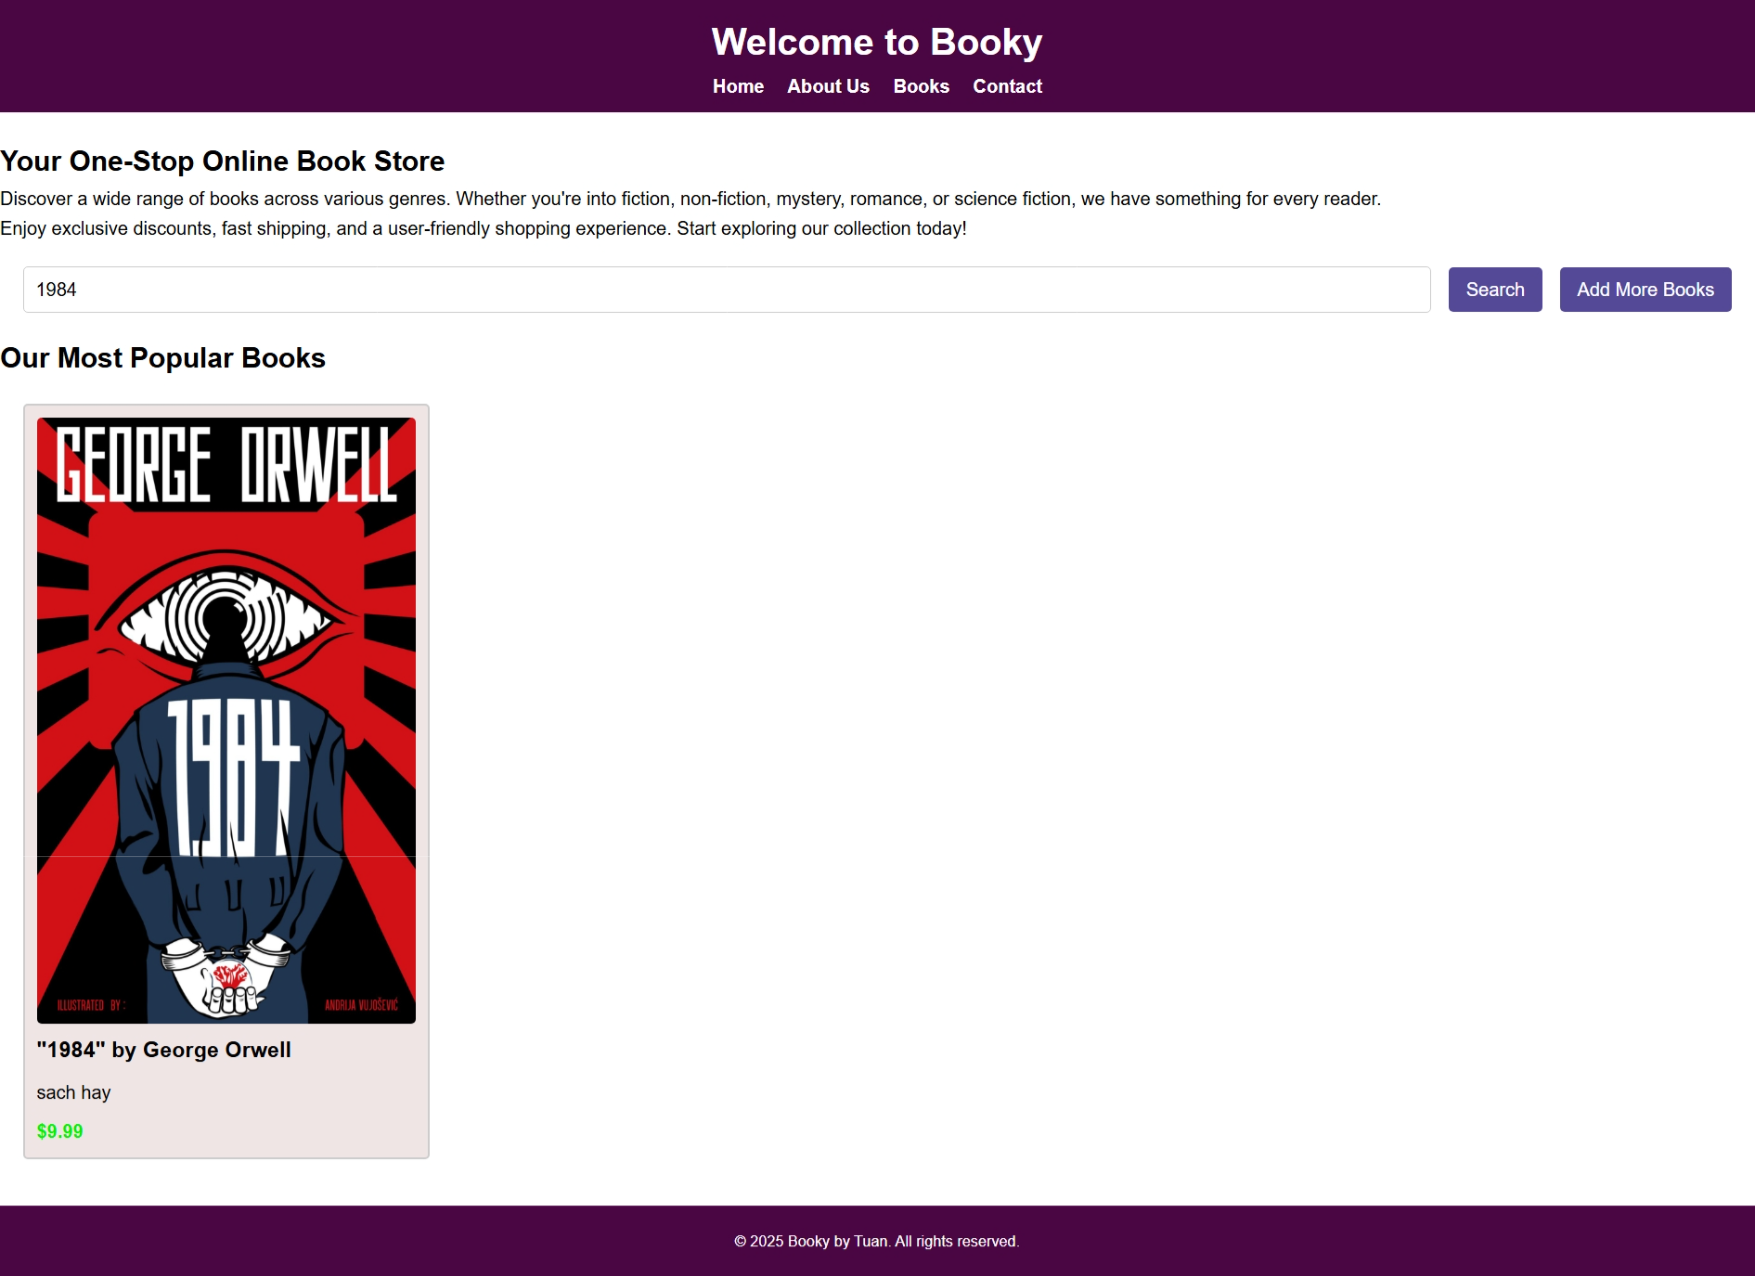
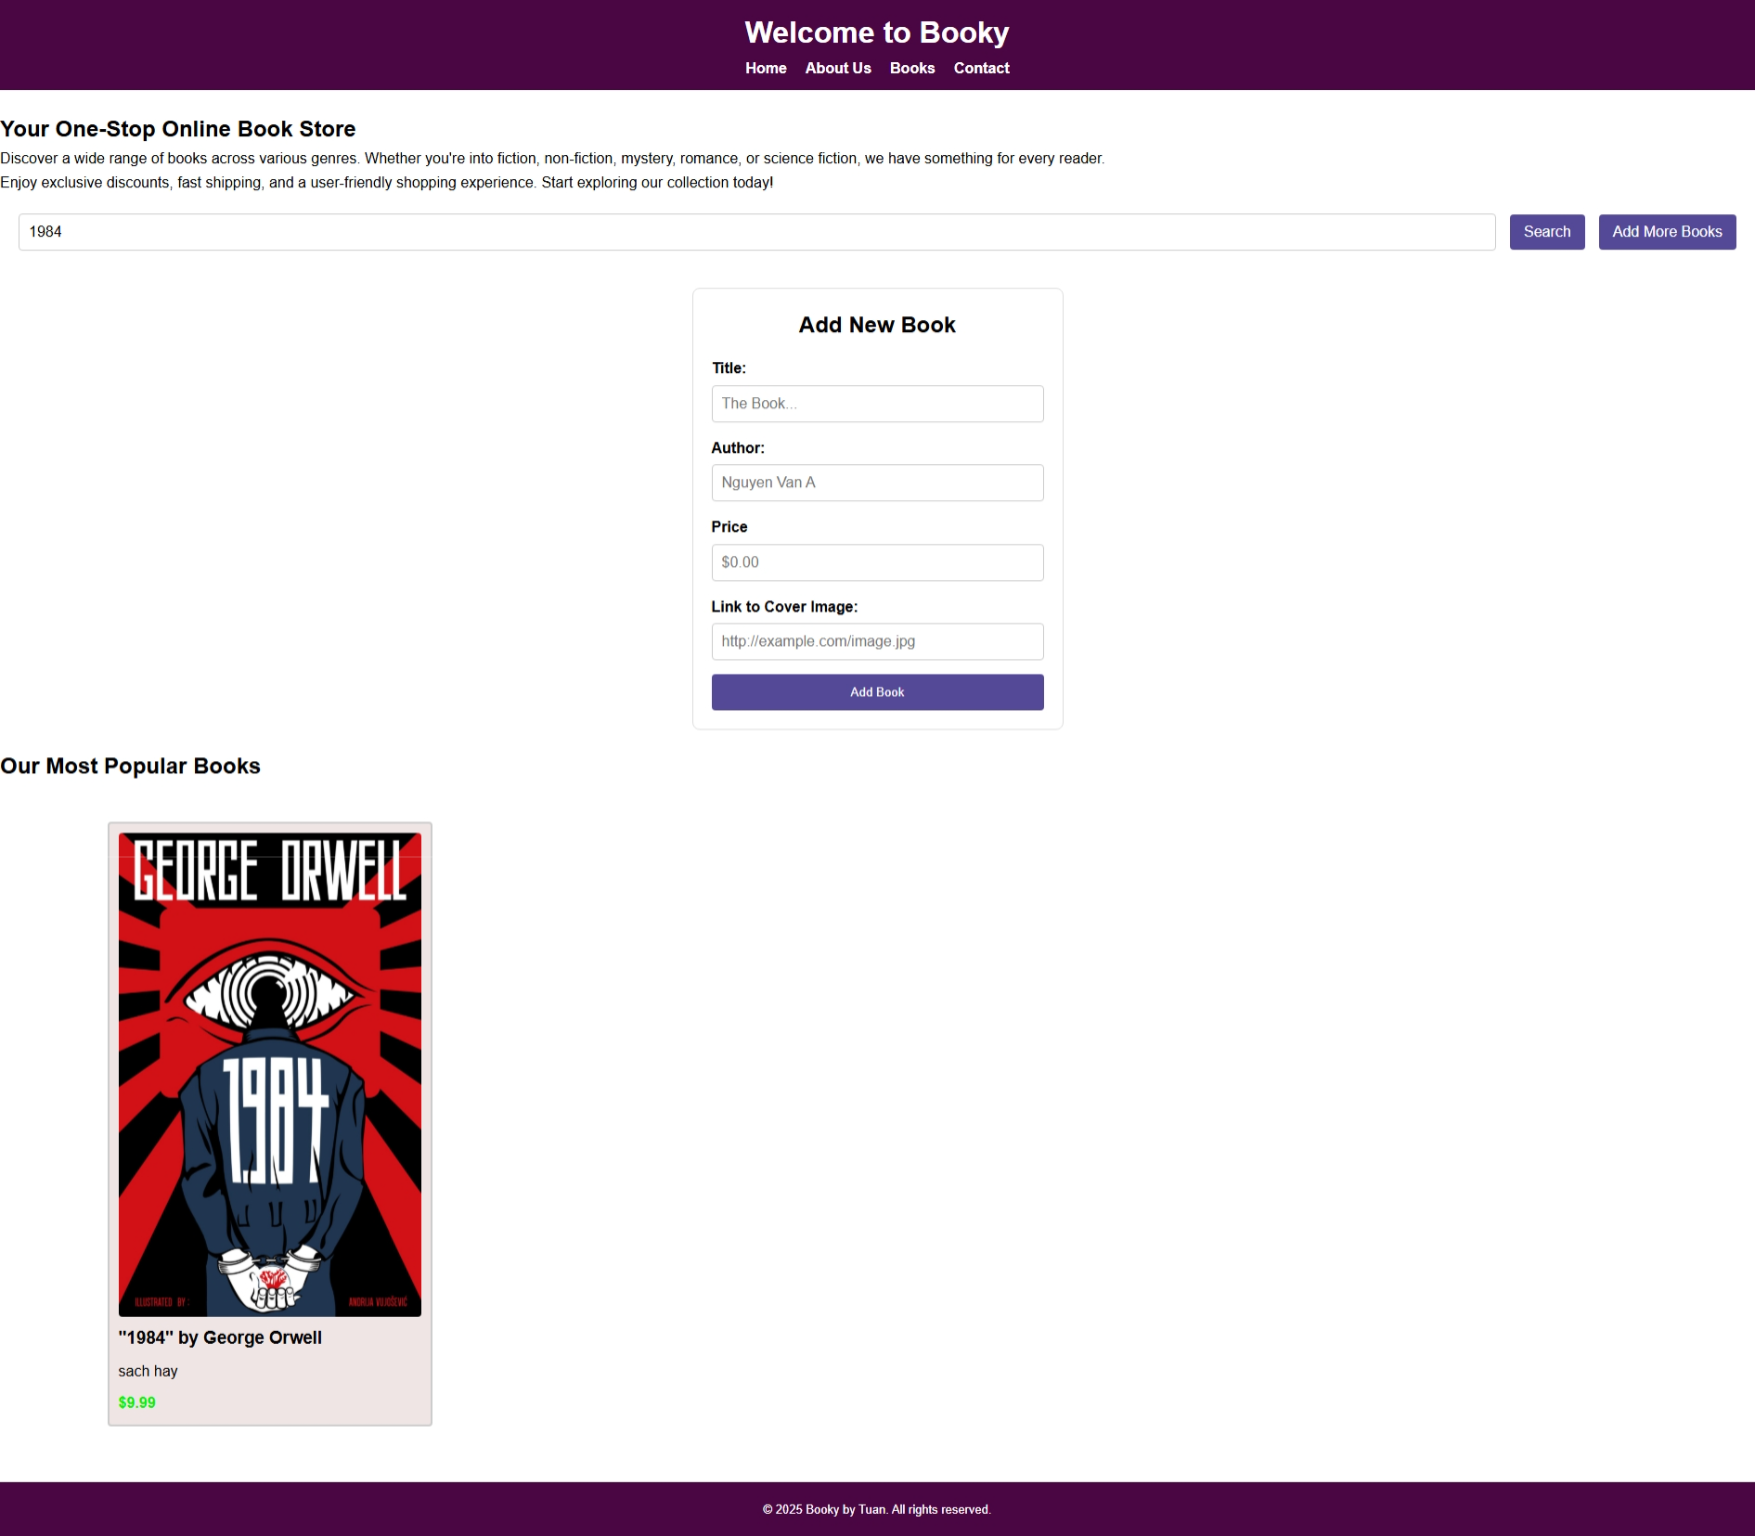
added

diff --git a/BT tuan 6/Bai 5/script.js b/BT tuan 6/Bai 5/script.js
@@ -1,0 +1,175 @@
+document.addEventListener('DOMContentLoaded', () => {
+
+    let books = []; // Mang luu sach
+
+    const toggleFormBtn = document.getElementById('toggleFormBtn');
+    const addBookForm = document.getElementById('addBookForm');
+    const searchInput = document.getElementById('searchInput');
+    const searchBtn = document.getElementById('searchBtn');
+    const booksList = document.querySelector('.books-list');    
+    const errorMsg = document.getElementById('errorMsg');
+    const cancelBtn = document.getElementById('cancelBtn');
+    const successMessage = document.getElementById('successMessage');
+
+
+    // Ham luu sach vao localStorage
+    const saveBooks = () => {
+        localStorage.setItem('products', JSON.stringify(books));
+    };
+
+    // Ham load danh sach tu localStorage
+    const loadBooks = () => {
+        const savedBooks = localStorage.getItem('products');
+        if (savedBooks) {
+            // Co data thi load tu localStorage
+            books = JSON.parse(savedBooks);
+        } else {
+            // 4 sach mac dinh tu HTML chuyen sang
+            books = [
+                {
+                    title: "The Great Gatsby",
+                    author: "F. Scott Fitzgerald",
+                    price: "10.99",
+                    description: "A novel about the American dream.",
+                    imageUrl: "https://tse2.mm.bing.net/th/id/OIP.0jKsYa7NA4f-atP8k37ipgHaLS?cb=12&rs=1&pid=ImgDetMain&o=7&rm=3"
+                },
+                {
+                    title: "1984",
+                    author: "George Orwell",
+                    price: "9.99",
+                    description: "A dystopian novel about totalitarianism.",
+                    imageUrl: "https://cdn.kobo.com/book-images/c9472126-7f96-402d-ba57-5ba4c0f4b238/1200/1200/False/nineteen-eighty-four-1984-george.jpg"
+                },
+                {
+                    title: "To Kill a Mockingbird",
+                    author: "Harper Lee",
+                    price: "12.99",
+                    description: "A novel about racial injustice in the Deep South.",
+                    imageUrl: "https://m.media-amazon.com/images/I/81gepf1eMqL._SL1500_.jpg"
+                },
+                {
+                    title: "The Hunger Games",
+                    author: "Suzanne Collins",
+                    price: "11.99",
+                    description: "A dystopian novel about survival and rebellion.",
+                    imageUrl: "https://tse2.mm.bing.net/th/id/OIP.iXT1k2bLKV6pZLvUPAciCgHaLN?cb=12&rs=1&pid=ImgDetMain&o=7&rm=3"
+                }
+            ];
+        }
+    };
+
+
+    // Ham hien thi sach ra Website
+    const displayBooks = () => {
+        // Clear the current list to avoid duplicates
+        booksList.innerHTML = '';
+
+        // Loop qua mang books
+        books.forEach(book => {
+            // tao the article cho sach moi
+            const newBookCard = document.createElement('article');
+            newBookCard.className = 'book-card';
+
+            // tao the img va gan link anh
+            const img = document.createElement('img');
+            img.src = book.imageUrl || 'https://tse1.mm.bing.net/th/id/OIP.WXV2awHCNEEbCJwroH_p_AHaHa?cb=12&w=600&h=600&rs=1&pid=ImgDetMain&o=7&rm=3';
+            img.alt = `Cover of ${book.title}`;
+
+            // tao the va gan ten sach & tac gia
+            const h3 = document.createElement('h3');
+            h3.textContent = `"${book.title}" by ${book.author}`;
+
+            // tao the mo ta va gan noi dung
+            const p = document.createElement('p');
+            p.textContent = book.description;
+
+            // tao the gia va gan gia tri
+            const span = document.createElement('span');
+            span.textContent = `$${parseFloat(book.price).toFixed(2)}`;
+
+            // them cac the vao the article
+            newBookCard.append(img, h3, p, span);
+
+            // them the article vao danh sach sach
+            booksList.appendChild(newBookCard);
+        });
+    };
+
+    // Event Listeners
+
+    // An/hien form them sach moi
+    toggleFormBtn.addEventListener('click', () => addBookForm.classList.toggle('hidden'));
+
+    // Nut huy
+    cancelBtn.addEventListener('click', () => {
+        addBookForm.reset();
+        errorMsg.textContent = '';
+        addBookForm.classList.add('hidden');
+    });
+
+    // tim kiem/loc sach
+    const filterBooks = () => {
+        const searchTerm = searchInput.value.toLowerCase();
+        const bookCards = document.querySelectorAll('.book-card'); // them de update danh sach sach
+        bookCards.forEach(card => {
+            const title = card.querySelector('h3').textContent.toLowerCase();
+            if (title.includes(searchTerm)) {
+                card.style.display = 'flex';
+            } else {
+                card.style.display = 'none';
+            }
+        });
+    };
+
+    searchBtn.addEventListener('click', filterBooks);
+    searchInput.addEventListener('keyup', filterBooks);
+
+    // Them sach moi qua form
+    addBookForm.addEventListener('submit', (e) => {
+        e.preventDefault();
+        const title = document.getElementById('bookTitle').value.trim();
+        const author = document.getElementById('bookAuthor').value.trim();
+        const price = document.getElementById('bookPrice').value.trim();
+        const description = document.getElementById('bookDescription').value.trim();
+        const imageUrl = document.getElementById('bookImage').value.trim();
+
+        // Kiem tra du lieu
+        if (!title || !author || !price || !description) {
+            errorMsg.textContent = 'Please fill in all required fields.';
+            return;
+        }
+        if (isNaN(parseFloat(price)) || parseFloat(price) < 0) {
+            errorMsg.textContent = 'Please enter a valid price.';
+            return;
+        }
+        errorMsg.textContent = '';
+
+        // Tao doi tuong sach moi
+        const newBook = { title, author, price, description, imageUrl };
+
+        // them sach moi vao mang state
+        books.push(newBook);
+
+        // Luwu vao localStorage
+        saveBooks();
+
+        // load lai danh sach sach tren giao dien
+        displayBooks();
+
+        // Ap dung loc neu co 
+        filterBooks();
+
+        // Thong bao thanh cong
+        successMessage.textContent = `"${title}" was added successfully!`;
+        successMessage.classList.remove('hidden');
+        setTimeout(() => successMessage.classList.add('hidden'), 3000);
+
+        // Reset form 
+        addBookForm.reset();
+        addBookForm.classList.add('hidden');
+    });
+
+    // Load mang books va hien thi
+    loadBooks();
+    displayBooks();
+});

diff --git a/BT tuan 6/Bai 5/index.html b/BT tuan 6/Bai 5/index.html
@@ -1,0 +1,68 @@
+<!DOCTYPE html>
+<html lang="en">
+    <head>
+        <meta charset="UTF-8">
+        <link rel="stylesheet" href="style.css">
+        <meta name="viewport" content="width=device-width, initial-scale=1.0">
+        <title>Booky-An Online Book Store</title>
+    </head>
+    <body>
+        <header>
+            <h1>Welcome to Booky</h1>
+            <nav> <!--Thanh dieu huong-->
+                <ul>
+                    <li><a href="#home">Home</a></li> 
+                    <li><a href="#books">Books</a></li> 
+                    <li><a href="#contact">Contact</a></li> 
+                </ul>    
+            </nav>    
+        </header>
+        <main>
+            <section> <!--Gioi thieu ve cua hang sach-->
+                <h2>Your One-Stop Online Book Store</h2>
+                <p>Discover a wide range of books across various genres. Whether you're into fiction, non-fiction, mystery, romance, or science fiction, we have something for every reader.</p>
+                <p>Enjoy exclusive discounts, fast shipping, and a user-friendly shopping experience. Start exploring our collection today!</p>
+            </section>
+            <section>
+                <div class="search-bar">
+                    <input type="text" id="searchInput" placeholder="Search for books"> <button id="searchBtn">Search</button>
+                    <button id="toggleFormBtn">Add More Books</button>
+                </div>
+
+                <form id="addBookForm" class="hidden">
+                    <h3>Add New Book</h3>
+                    <label for="bookTitle">Title:</label>
+                    <input type="text" id="bookTitle" placeholder="The Book..." required>
+
+                    <label for="bookAuthor">Author:</label>
+                    <input type="text" id="bookAuthor" placeholder="Nguyen Van A" required>
+
+                    <label for="bookPrice">Price</label>
+                    <input type="number" id="bookPrice" placeholder="$0.00" step="0.01" min="0" required>
+
+                    <label for="bookDescription">Description:</label>
+                    <textarea id="bookDescription" placeholder="A brief description of the book..." rows="4"></textarea>
+
+                    <label for="bookImage">Link to Cover Image:</label>
+                    <input type="url" id="bookImage" placeholder="http://example.com/image.jpg">
+
+                    <div class="button-group">
+                        <button type="submit" id="submitBtn">Add Book</button>
+                        <button type="button" id="cancelBtn">Cancel</button>
+                    </div>
+                    <p id="errorMsg" style="color:red;"></p>  <!--- hien thi loi neu co -->
+                </form>
+                <h3 id="successMessage" style="color:green;"></h3> <!--- hien thi thanh cong -->
+
+                <h2> Our Most Popular Books</h2>
+                <div class="books-list">
+                 <!--Chuyen sang luu o script-->
+                </div>        
+            </section>      
+        </main>
+        <footer>
+            <p>&copy; 2025 Booky by Tuan. All rights reserved.</p>
+        </footer> 
+    <script src="script.js"></script> 
+    </body>       
+</html>

diff --git a/BT tuan 6/Bai 3/style.css b/BT tuan 6/Bai 3/style.css
@@ -46,6 +46,8 @@ nav a {
     gap: 20px;
     padding: 20px;
     justify-content: center;
+    max-width: 1700px;
+    margin: 0 auto;
 }
 
 .book-card {
@@ -57,6 +59,8 @@ nav a {
     flex-direction: column;
     gap: 8px;
     max-width: 350px;
+    margin-top: 20px;
+    margin-bottom: 20px;
 }
 
 .book-card img {

diff --git a/BT tuan 6/Bai 2/style.css b/BT tuan 6/Bai 2/style.css
@@ -46,6 +46,9 @@ nav a {
     grid-template-columns: repeat(auto-fit, minmax(350px, 1fr));
     gap: 20px;
     padding: 20px;
+    justify-content: center;
+    max-width: 1500px;
+    margin: 0 auto;
 }
 
 .book-card {
